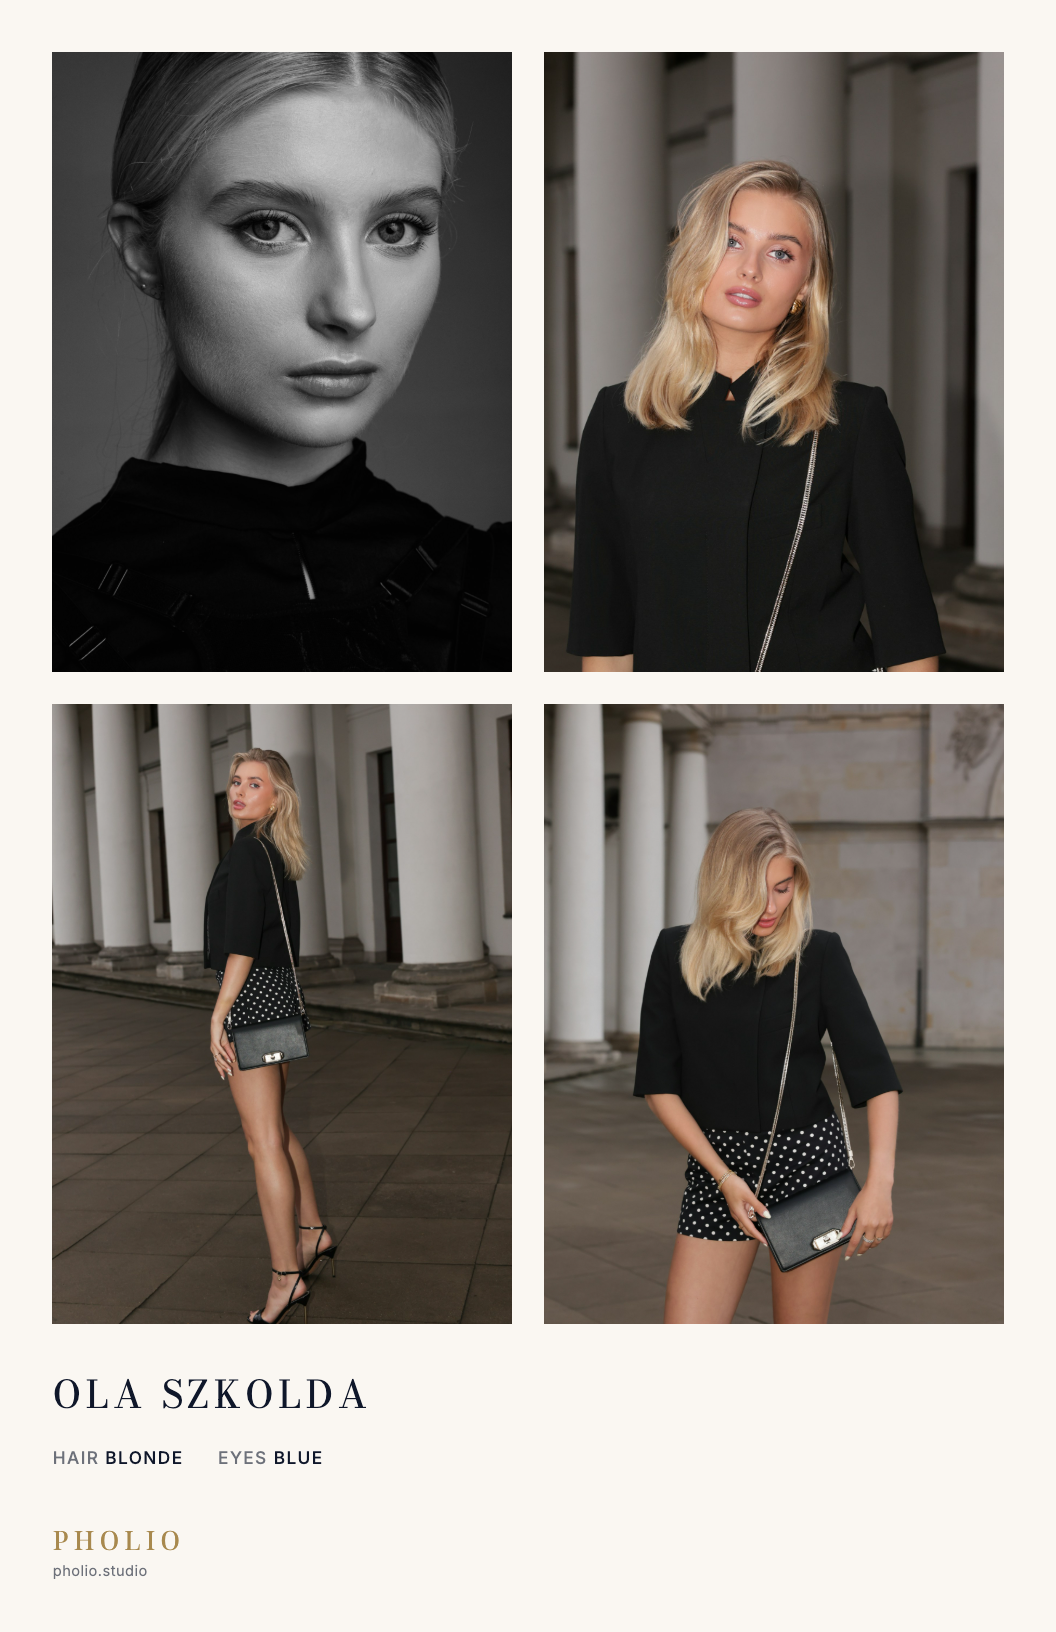
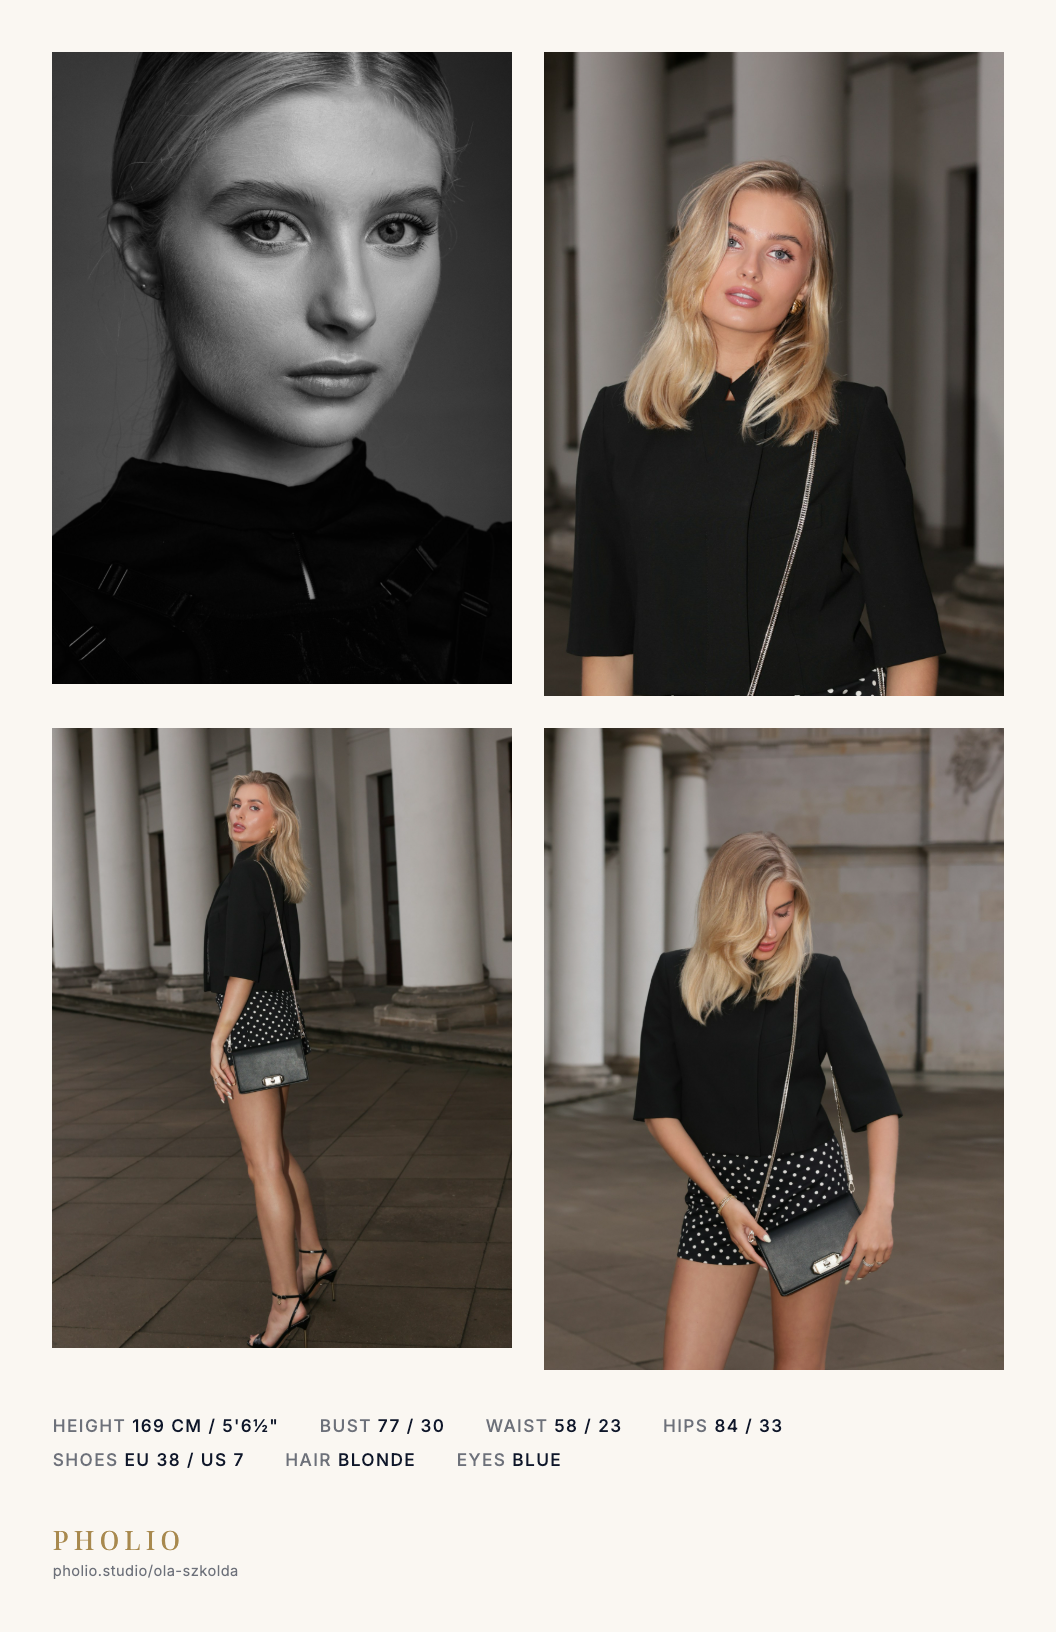
feat(comp-card): full stats line from published measurements; drop the name; portfolio link
The back carried only HAIR and EYES because the talent record had every
measurement as null. The figures are now the ones she and her agency
publish, checked against each other (height agrees across both) and cited
with URLs and date in scripts/ola-talent.cjs: 169 cm, 77/58/84, EU 38.
Dress size has no published source and stays null; nothing is invented.

Height formats to the half inch as boards write it (169 cm is 5'6½", not
5'7"). Each label/value pair is one unbreakable unit with its own trailing
space, so the line wraps only between pairs and the second line starts
flush; previously a spacer span at the break indented it.

The name comes off the back: the front's masthead carries it and a repeat
was a caption with no job. The band's height goes to the photographs (cells
1:1.4). The one line under PHOLIO is her portfolio address from the record's
slug, pholio.studio/ola-szkolda, the thing a booker can act on.

lessons.md §24 and the component comment updated to match.

Claude-Session: https://claude.ai/code/session_016qt2DmovPdiFfhPVsvgz4U

Changed region(s): [[0.0312, 0.4062, 0.9688, 0.9062], [0.4375, 0.875, 0.5312, 0.9062], [0.1875, 0.9375, 0.2188, 0.9688]]

diff --git a/scripts/comp-card-back/template.html b/scripts/comp-card-back/template.html
@@ -55,21 +55,11 @@
     bottom: {{MARGIN}}px;
   }
 
-  .name {
-    font-family: "CardDisplay", Georgia, serif;
-    font-weight: 400;
-    font-size: {{NAME_SIZE}}px;
-    line-height: 1;
-    letter-spacing: {{NAME_TRACKING}}em;
-    color: var(--ink);
-    padding-top: {{NAME_TOP}}px;
-  }
-
   /* Two lines of leading are reserved whether or not the record fills them.
      When the measurements land the band does not reflow; today the second
      line simply reads as margin. */
   .stats {
-    margin-top: {{STATS_GAP}}px;
+    padding-top: {{STATS_TOP}}px;
     font-family: "CardBody", system-ui, sans-serif;
     font-weight: 500;
     font-size: {{STATS_SIZE}}px;
@@ -83,9 +73,9 @@
     color: var(--ink-muted);
   }
 
-  .stats .gap {
-    display: inline-block;
-    width: 2em;
+  .stats .pair {
+    white-space: nowrap;
+    margin-right: 2em;
   }
 
   .imprint {
@@ -120,11 +110,10 @@
 <div class="card">
   {{CELLS}}
   <div class="band">
-    <div class="name">{{NAME}}</div>
     <div class="stats">{{STATS}}</div>
     <div class="imprint">
       <span class="wordmark">PHOLIO</span>
-      <span class="contact">pholio.studio</span>
+      <span class="contact">{{PORTFOLIO}}</span>
     </div>
   </div>
 </div>

diff --git a/components/comp-card/CompCardBack.tsx b/components/comp-card/CompCardBack.tsx
@@ -13,12 +13,12 @@ const BACK_OUTPUT =
  *
  * Regenerate with `node scripts/comp-card-back/render.cjs`.
  *
- * The stats print only the fields the talent record actually carries — the
- * template is built for the full agency order (height, bust, waist, hips,
- * dress, shoes, hair, eyes) and prints the non-null prefix of it, today just
- * hair and eyes. Nothing is invented and no placeholder stands in for a
- * missing measurement; the band reserves the leading either way, so the
- * layout does not move when the record is completed.
+ * The stats are the fields the talent record actually carries, in the agency
+ * order (height, bust, waist, hips, dress, shoes, hair, eyes). The record's
+ * measurements are the ones she and her agency publish, cited in
+ * `scripts/ola-talent.cjs`; a field with no published source is null and is
+ * simply not printed. Nothing is invented and no placeholder stands in for a
+ * missing measurement. No name: the front's masthead carries it.
  */
 export default function CompCardBack() {
   const src = useDeferredCardAsset(BACK_OUTPUT);

diff --git a/lessons.md b/lessons.md
@@ -1189,11 +1189,12 @@ Four photographs, each doing a different job (beauty, editorial half-body,
 full-length, commercial), in one flat grid of equal portrait cells with a
 uniform paper margin. One stats line in caps, in the fixed agency order
 (height, bust, waist, hips, dress, shoes, hair, eyes), label and value the
-same size and differentiated by ink, not scale. The name repeated small as a
-caption, in the same face as the front. The agency mark small and quiet at
-the foot, the only display-face element on the whole back, with one contact
-line. Nothing a booker cannot act on. Left-aligned. No rules, boxes, eyebrow
-labels, edition numbers, socials, taglines, or a second accent.
+same size and differentiated by ink, not scale. No name: the front's
+masthead already carries it, and a repeat on the back is a caption with no
+job. The mark small and quiet at the foot, the only display-face element on
+the whole back, with one line beneath it a booker can act on, her portfolio
+address. Nothing else. Left-aligned. No rules, boxes, eyebrow labels,
+edition numbers, socials, taglines, or a second accent.
 
 **24.1 The hero stays off the back.** The front's photograph
 (`03-leaning-three-quarter.jpg`, locked via `HERO_PHOTO`) is not repeated on
@@ -1202,12 +1203,13 @@ the back. Note the filename trap:
 photograph re-exported under a different name, not
 `05-editorial-standing.jpg` as the filename implies.
 
-**24.2 Missing measurements stay missing.** Height and body measurements in
-the talent record are `null` on purpose, and they are not invented for a
-real, named person. The template carries the full agency order and prints
-only the non-null fields, but it reserves the leading for the full line so
-nothing reflows once the record is completed. Today the line reads
-`HAIR BLONDE   EYES BLUE`.
+**24.2 Measurements are published, never derived.** Height and body
+measurements cannot be read off the photographs, so they are taken from what
+the model and her agency publish (`scripts/ola-talent.cjs` cites both
+sources and the date they were checked against each other), never invented
+for a real, named person. The template carries the full agency order and
+prints only the non-null fields; dress size has no published source and
+stays absent. Nothing stands in for a missing field.
 
 **24.3 The wordmark is a fixed asset.** Wherever PHOLIO appears as the
 brand, it is the `Wordmark` face, weight, tracking and gold. On cream, that
